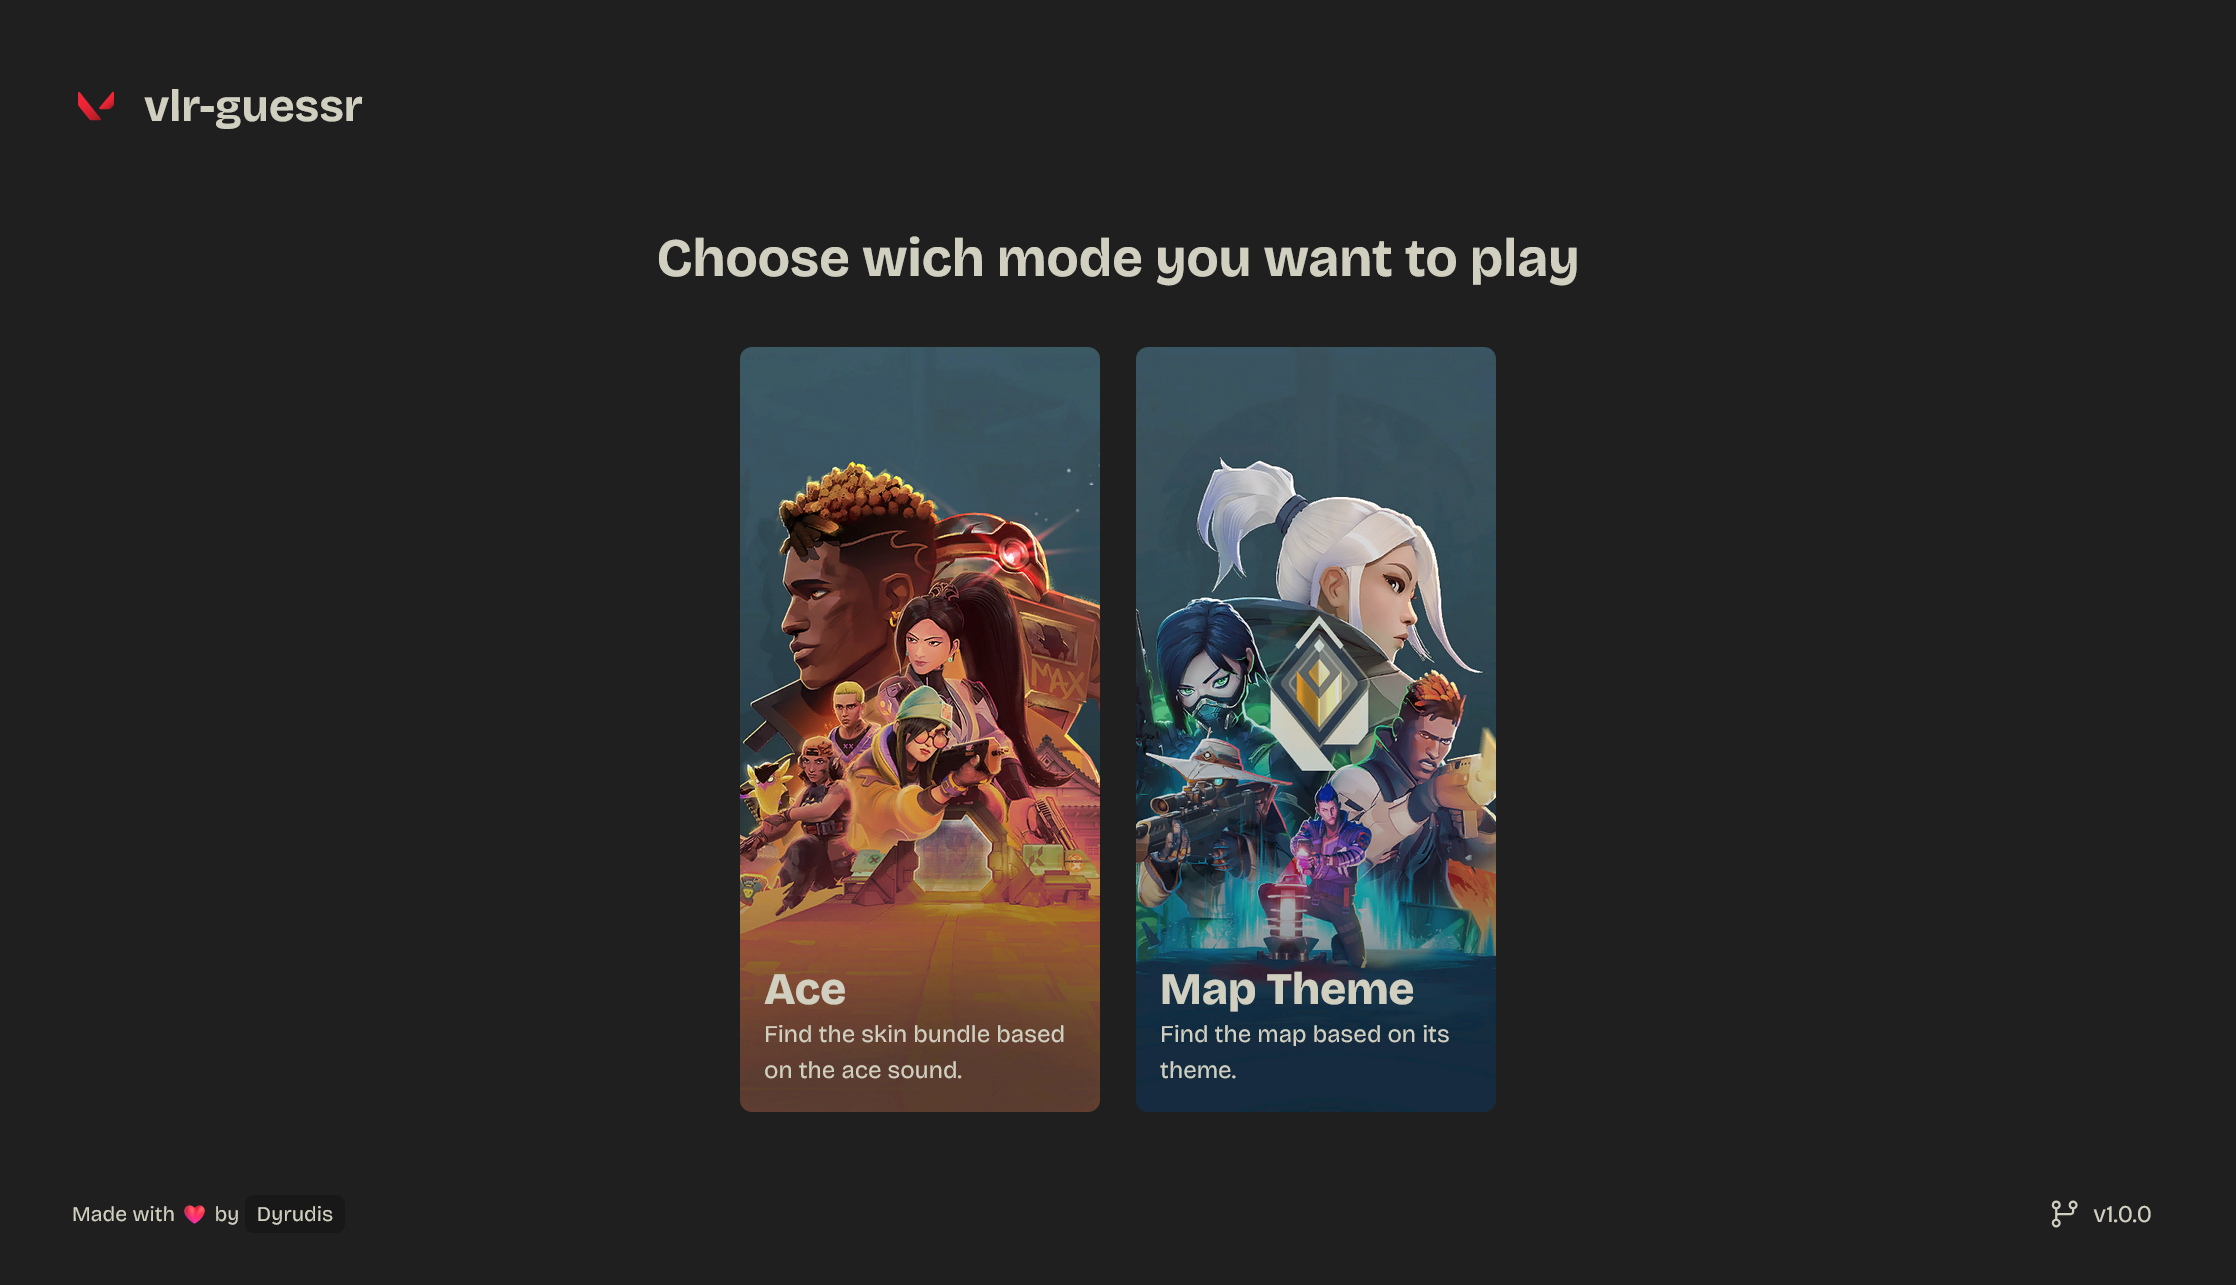
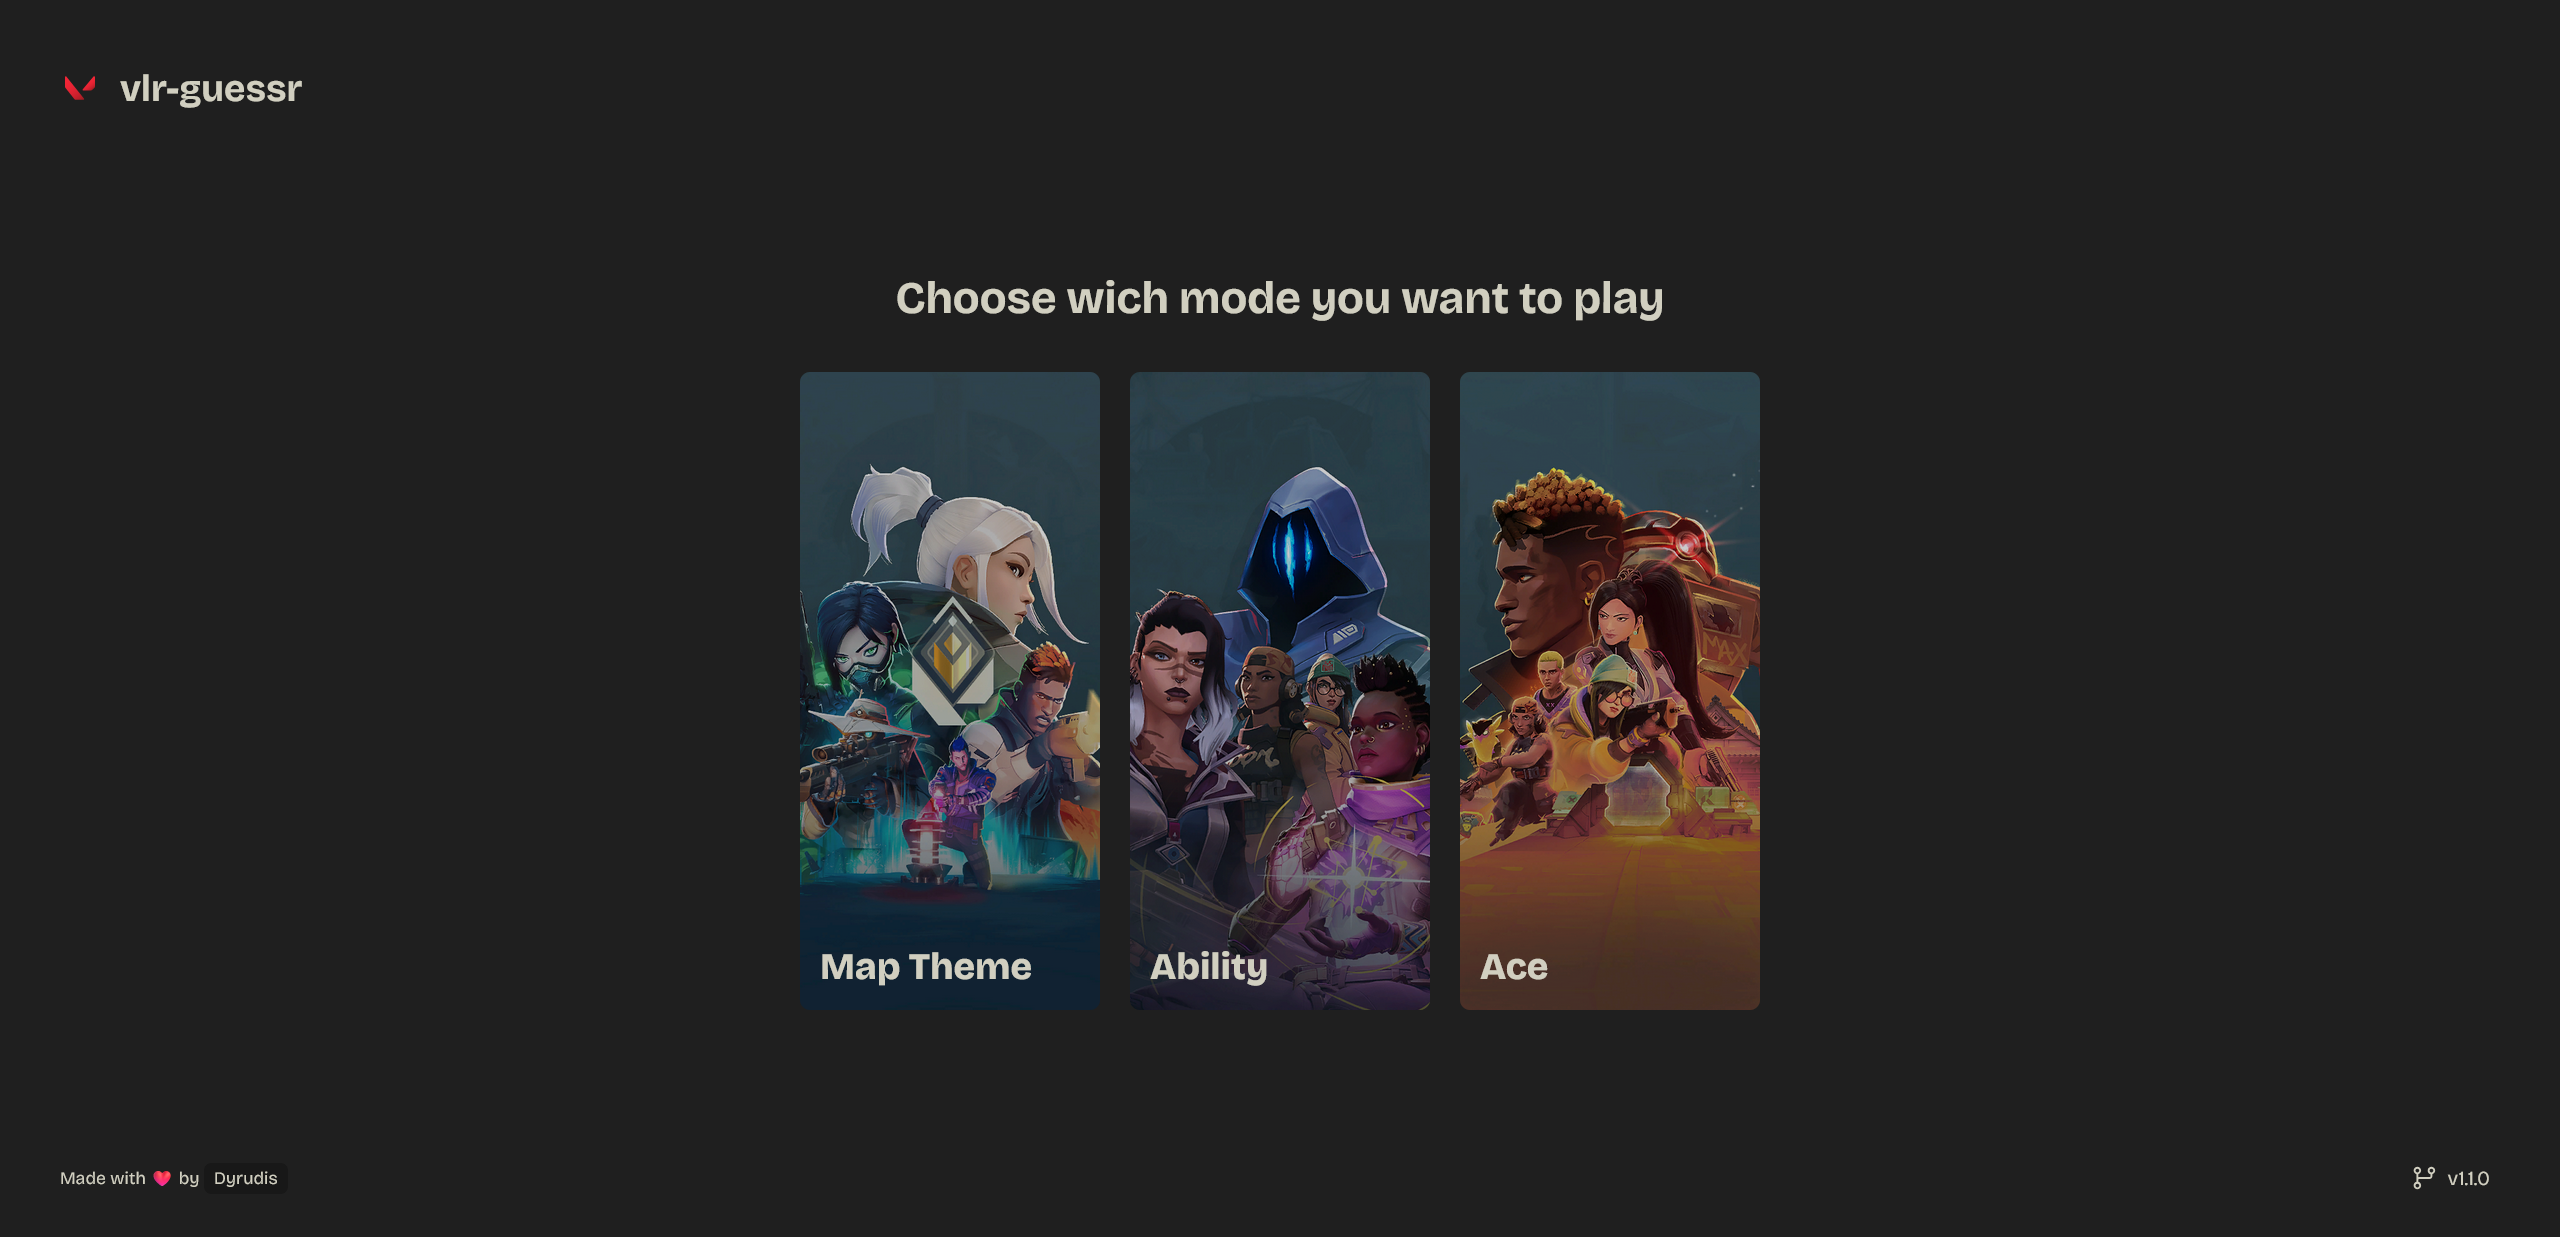
chore: migrate to cloudflare

diff --git a/src/App.tsx b/src/App.tsx
@@ -14,7 +14,7 @@ function App() {
   return (
     <div className="h-screen flex flex-col bg-background text-text">
       <QueryClientProvider client={queryClient}>
-        <BrowserRouter basename={process.env.NODE_ENV === 'development' ? '/' : '/vlr-guessr'}>
+        <BrowserRouter>
           <Header />
           <div className="flex-grow flex flex-col items-center justify-center">
             <Routes>

diff --git a/vite.config.ts b/vite.config.ts
@@ -15,5 +15,5 @@ export default defineConfig({
       '@utilities': resolve(__dirname, 'src/common/utilities'),
     },
   },
-  base: process.env.NODE_ENV === 'development' ? '/' : '/vlr-guessr',
+  base: '/',
 })

diff --git a/README.md b/README.md
@@ -2,7 +2,7 @@
 
 ![vlr-guessr Icon](src/assets/icon.svg)
 
-**vlr-guessr** is a fun and interactive web application where players can test their knowledge of Valorant SFX. The game challenges users to identify skin bundles or maps based on ace sounds or themes.
+**vlr-guessr** is a web game where players can test their knowledge of Valorant SFX. The game challenges users to identify maps, agent/abilities and skin bundles based on the audio. You can access the production version of the website [here](https://vlr-guessr.pages.dev/).
 
 ## Screenshots
 
